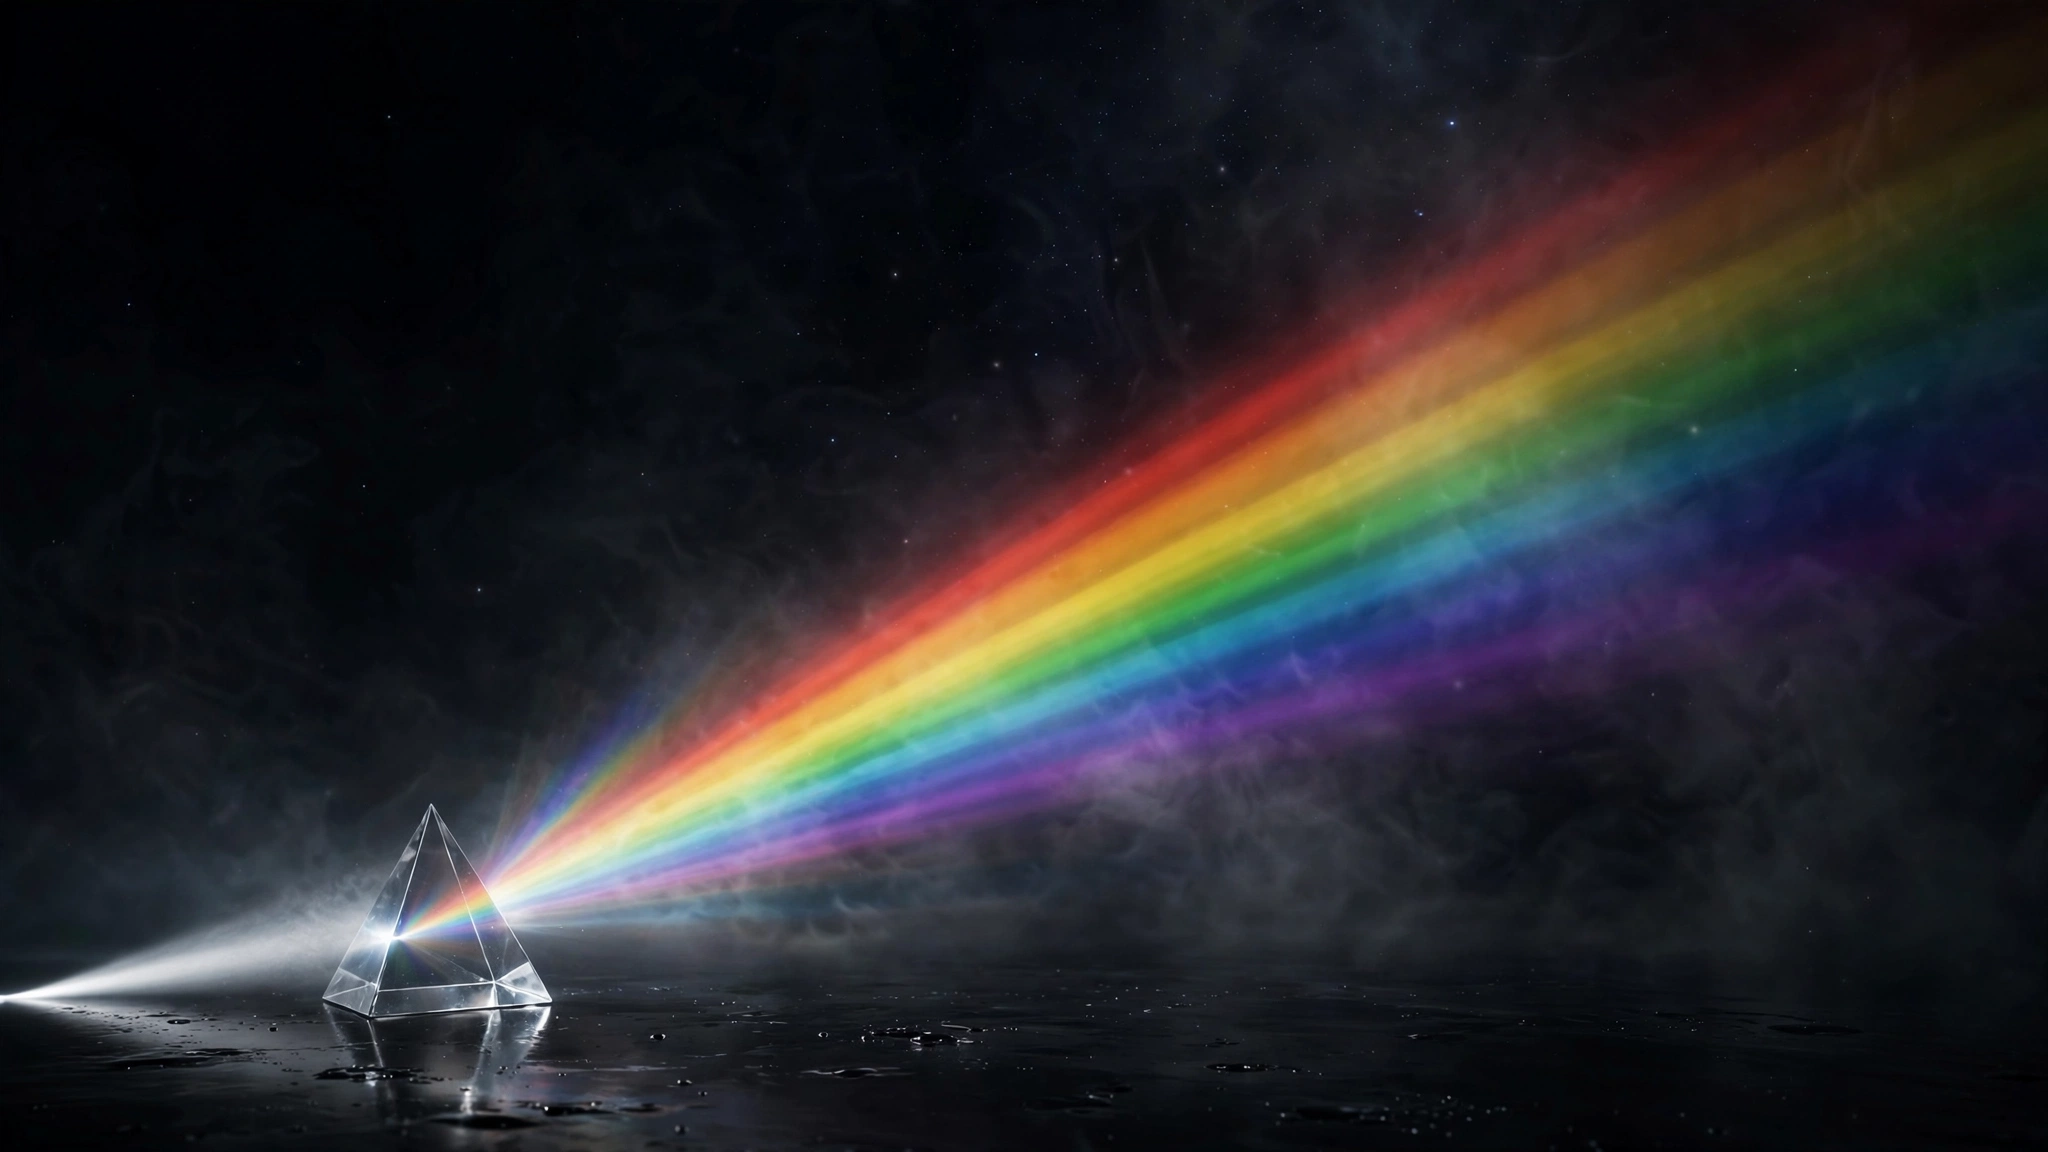
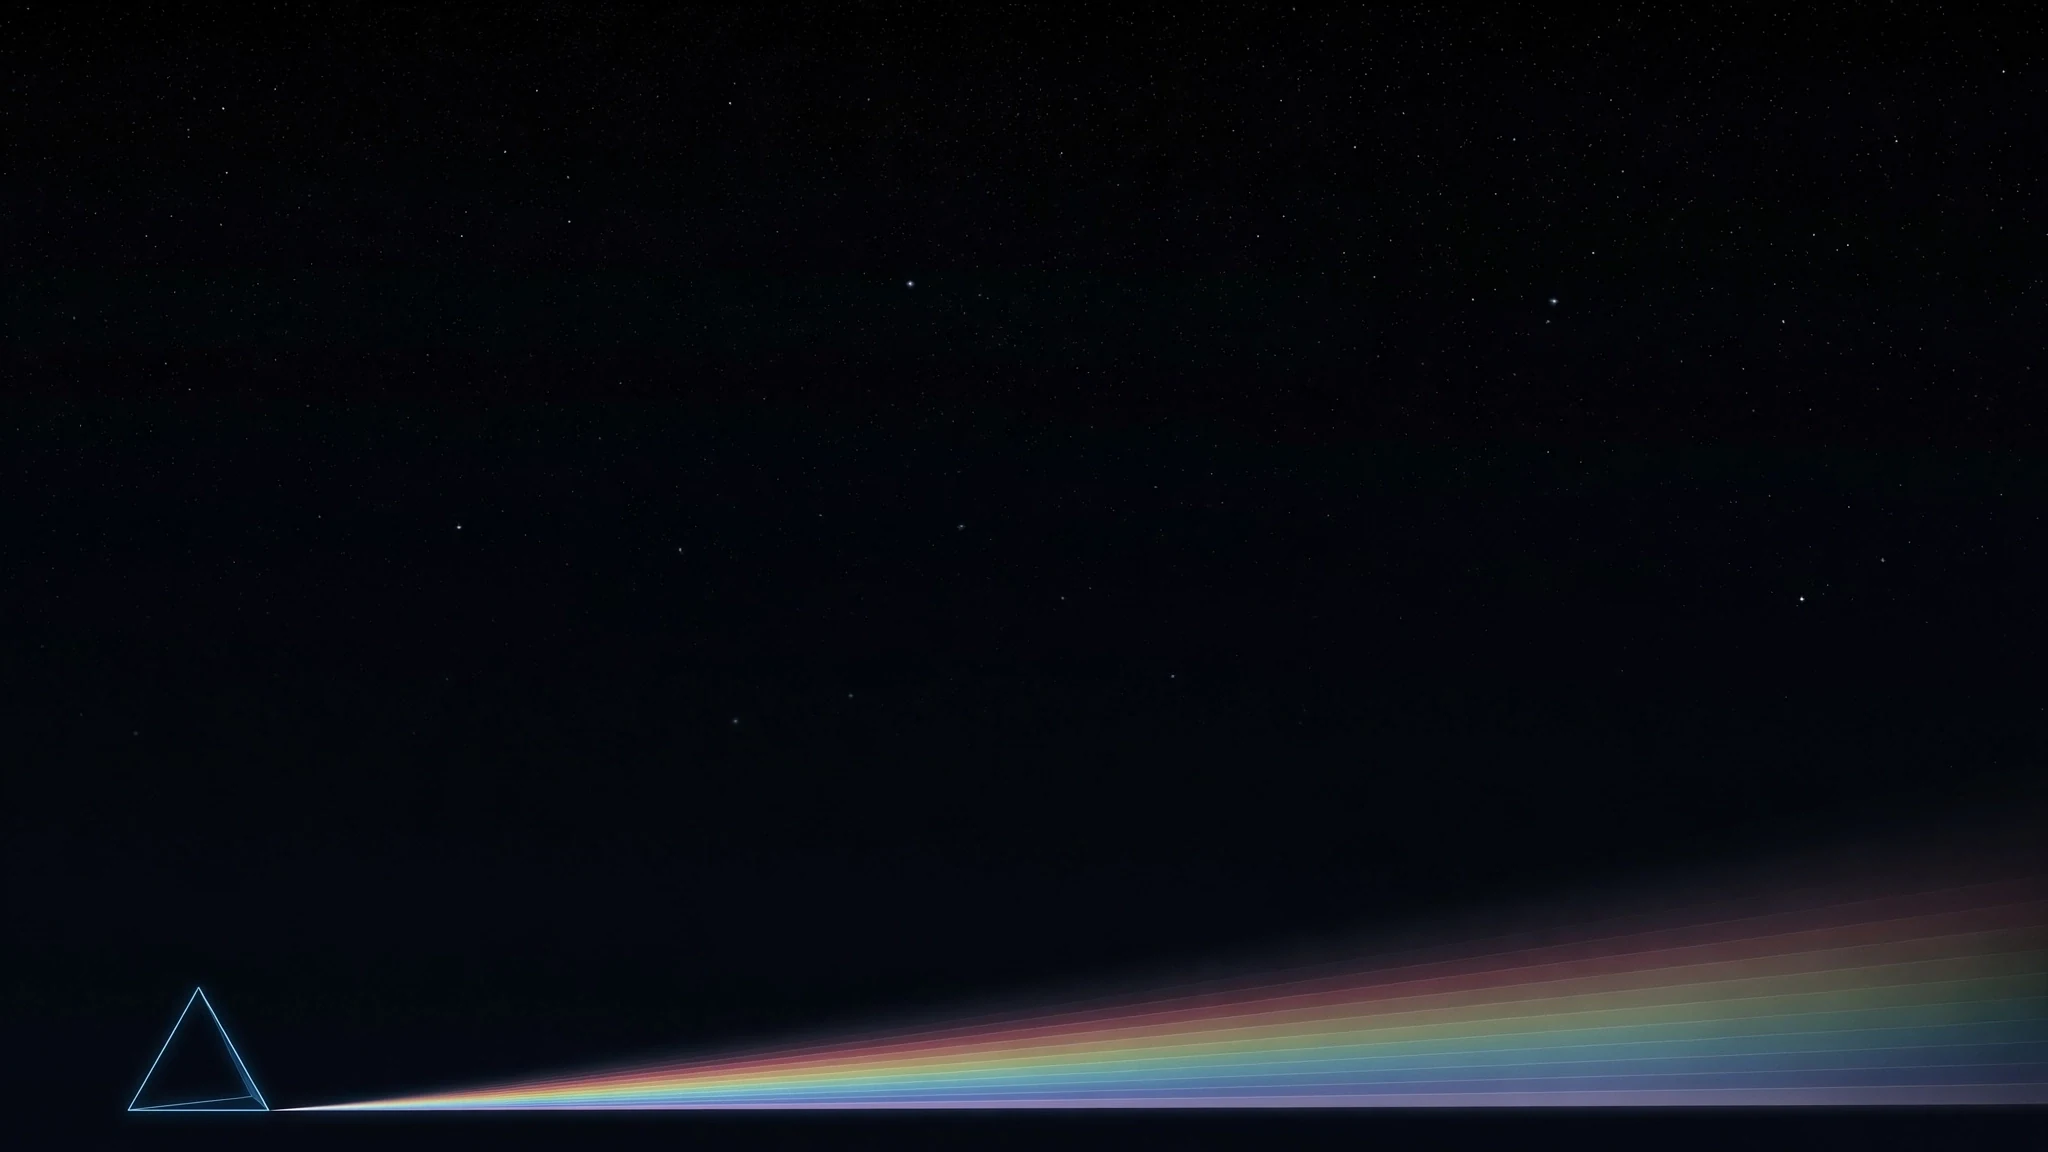
feat(landing): 首屏棱镜图按友站构图换图＋几何重调＋摘旧图入射叠层

diff --git a/user_frontend/src/views/marketing/LandingView.vue b/user_frontend/src/views/marketing/LandingView.vue
@@ -586,34 +586,27 @@ const year = new Date().getFullYear()
 
     <!-- ① Hero -->
     <header class="hero">
-      <!-- 移动端全幅背景（L-02 棱镜光束图，2026-11-15 换新图：深黑星空底、
-           棱镜居左下、白色光束自左缘入射、光谱扇斜射右上、左上大片黑场留给
-           文案）；图与脉冲叠层同装 .hero-bg-canvas（画布与图同比例 2048:1152、
-           高度撑满首屏，叠层恒对位）；仅 ≤900px 显示，桌面走 hero-visual 同图 -->
+      <!-- 移动端全幅背景（L-02 棱镜图，2026-11-18 按友站构图换图：黑底星空、
+           棱镜细线轮廓居左下、彩虹光束贴底向右下展开、无入射光束、无水面，
+           左上大片黑场留给文案）；图与脉冲叠层同装 .hero-bg-canvas（画布与图
+           同比例 2048:1152、高度撑满首屏，叠层恒对位）；仅 ≤900px 显示，
+           桌面走 hero-visual 同图 -->
       <div class="hero-bg" :class="{ 'is-ready': heroImgReady }" aria-hidden="true">
         <div class="hero-bg-canvas">
           <img class="hero-bg-img" src="/images/hero-prism-beam.webp" alt="" width="2048" height="1152" fetchpriority="high" @load="onHeroImgLoad" />
           <div class="hp">
-            <span class="hp-beamglow" />
-            <span class="hp-dot" />
-            <span class="hp-flash hp-flash--entry" />
             <span class="hp-flash hp-flash--prism" />
-            <span class="hp-refl" />
           </div>
         </div>
       </div>
-      <!-- 桌面棱镜主视觉：与移动端同一张棱镜光束图（2048×1152）。帧与图同
+      <!-- 桌面棱镜主视觉：与移动端同一张棱镜图（2048×1152）。帧与图同
            比例、高度撑满首屏，水平锚点把棱镜压到左下（几何见 .hero-visual-frame）。
            移动端不显示，走 .hero-bg。不再另叠彩虹渐变。 -->
       <div class="hero-visual" :class="{ 'is-ready': heroImgReady }" aria-hidden="true">
         <div class="hero-visual-frame">
           <img class="hero-visual-img" src="/images/hero-prism-beam.webp" alt="" width="2048" height="1152" @load="onHeroImgLoad" />
           <div class="hp">
-            <span class="hp-beamglow" />
-            <span class="hp-dot" />
-            <span class="hp-flash hp-flash--entry" />
             <span class="hp-flash hp-flash--prism" />
-            <span class="hp-refl" />
           </div>
         </div>
       </div>
@@ -1006,21 +999,18 @@ const year = new Date().getFullYear()
 }
 .hero-bg-canvas {
   position: absolute;
-  /* 画布与新图同比例（2048:1152）、高度撑满首屏：图宽＝177.78cqh 恒覆盖屏宽。
-     水平锚点：把棱镜中心（图 x≈21.3%）压到屏左 78px 处——棱镜落在左下、
-     入射光束自左缘入画、光谱扇斜贯右上、左上黑场留给文案。
-     脉冲几何覆盖值（对新图 2048×1152 像素实测，图内 % 坐标）：
-     光束线 y≈81、入射星芒 (19.5, 79.5)、棱镜中心 (21.3, 76.5)、倒影心 y≈90.5 */
+  /* 画布与图同比例（2048:1152）、高度撑满首屏：图宽＝177.78cqh 恒覆盖屏宽。
+     水平锚点：把棱镜中心（图 x≈9.7%）压到屏左 78px 处——棱镜落在左下、
+     彩虹光束贴底向右下展开、左上黑场留给文案。
+     脉冲几何覆盖值（对现行图 2048×1152 视觉定位实测，图内 % 坐标）：
+     棱镜轮廓 bbox x 6.2–13.2、y 85.6–96.5，中心 (9.7, 92.8) */
   top: 0;
   left: 0;
   height: 100%;
   aspect-ratio: 2048 / 1152;
-  margin-left: calc(78px - 37.8cqh);
-  --hp-beam-y: 81%;
-  --hp-entry-x: 19.5%;
-  --hp-prism-x: 21.3%;
-  --hp-prism-y: 76.5%;
-  --hp-refl-y: 90.5%;
+  margin-left: calc(78px - 17.2cqh);
+  --hp-prism-x: 9.7%;
+  --hp-prism-y: 92.8%;
 }
 .hero-bg-img {
   display: block;
@@ -1049,7 +1039,7 @@ const year = new Date().getFullYear()
   background: linear-gradient(0deg, rgba(1, 1, 4, 0.86), rgba(1, 1, 4, 0.55) 28%, transparent 56%);
 }
 /* 桌面棱镜：与移动端同一张图，帧与图同比例（2048:1152）撑满首屏，
-   脉冲百分比跟图走；定位把棱镜压到左下、光谱扇斜贯右上，左上黑部留给文案。只裁装饰层。 */
+   脉冲百分比跟图走；定位把棱镜压到左下、彩虹贴底向右下展开，左上黑部留给文案。只裁装饰层。 */
 .hero-visual {
   position: absolute;
   inset: 0;
@@ -1061,19 +1051,16 @@ const year = new Date().getFullYear()
   position: absolute;
   /* 不用 transform 定位：全站减动效会把 transform 清掉，构图不能靠它。
      帧与图同比例（2048:1152）、高度撑满首屏（超宽屏 min-width 兜底、底对齐，
-     图不拉伸不变形）；水平锚点：图比容器宽时把棱镜中心（图 x≈21.3%）压到
+     图不拉伸不变形）；水平锚点：图比容器宽时把棱镜中心（图 x≈9.7%）压到
      容器宽 12% 处，图恰好/不足时贴左/右对齐兜底不露黑。脉冲坐标与移动画布
      同一组图内 % 值（同一张图、帧图同比例恒对位）。 */
   bottom: 0;
   height: 100%;
   min-width: 100%;
   aspect-ratio: 2048 / 1152;
-  left: max(min(0px, calc(100cqw - 177.78cqh)), min(0px, calc(12cqw - 37.3cqh)));
-  --hp-beam-y: 81%;
-  --hp-entry-x: 19.5%;
-  --hp-prism-x: 21.3%;
-  --hp-prism-y: 76.5%;
-  --hp-refl-y: 90.5%;
+  left: max(min(0px, calc(100cqw - 177.78cqh)), min(0px, calc(12cqw - 17.2cqh)));
+  --hp-prism-x: 9.7%;
+  --hp-prism-y: 92.8%;
 }
 .hero-visual-img {
   display: block;
@@ -1095,59 +1082,26 @@ const year = new Date().getFullYear()
 }
 
 /* ---------- Hero 棱镜脉冲（L-02 唯一动效，2026-11-14 友站实测） ----------
-   一轮 5s：亮点沿入射光束自左向右跑 1.3s（0–26%）→ 抵达入射点时入射
-   星芒大亮、棱镜本体闪亮、地板倒影同步微亮 → 约 2.5s（50%）衰尽，
-   后半程全静默。光谱扇／出射星芒／行星光晕／画面本体零动画（实测
+   一轮 5s：棱镜本体在约 1.6s（32%）闪亮、约 2.6s（52%）衰尽，后半程
+   全静默。2026-11-18 换友站构图图后图内已无入射光束与水面，为旧图
+   入射光束编排的亮点／光束辉光／入射星芒／地板倒影四叠层一并摘除，
+   只留棱镜闪。光谱扇／出射星芒／行星光晕／画面本体零动画（实测
    90s+ 恒定，不加）。周期 5s 字面值照本文件环境动画先例（uhd-marquee
    46s linear、pin-breathe 26s）；相位 % 由实测秒数换算；几何坐标走
-   --hp-* 令牌（uhd-tokens.css §1.7 是旧图兜底值，现行几何在
-   .hero-visual-frame／.hero-bg-canvas 内按新图实测覆盖，两端同值）。 */
+   --hp-* 令牌（uhd-tokens.css §1.7 同值兜底，现行几何在
+   .hero-visual-frame／.hero-bg-canvas 内按现行图实测覆盖，两端同值）。 */
 .hp {
   position: absolute;
   inset: 0;
   pointer-events: none;
 }
-.hp-dot,
-.hp-beamglow,
-.hp-flash,
-.hp-refl {
+.hp-flash {
   position: absolute;
   opacity: 0;
   pointer-events: none;
-}
-.hp-beamglow {
-  left: 0;
-  top: var(--hp-beam-y);
-  width: var(--hp-entry-x);
-  height: 4%;
-  transform: translateY(-50%);
-  background: linear-gradient(90deg, transparent 30%, rgba(255, 255, 255, 0.75));
-  filter: blur(3px);
-  animation: hp-beamglow 5s linear infinite;
-}
-.hp-dot {
-  left: 0;
-  top: var(--hp-beam-y);
-  width: 15%;
-  height: 8%;
-  transform: translate(-50%, -50%);
-  border-radius: 50%;
-  background: radial-gradient(closest-side, rgba(255, 255, 255, 0.95), rgba(190, 215, 255, 0.4) 48%, transparent 72%);
-  filter: blur(1px);
-  animation: hp-travel 5s linear infinite;
-}
-.hp-flash {
   transform: translate(-50%, -50%);
   border-radius: 50%;
   mix-blend-mode: screen;
-}
-.hp-flash--entry {
-  left: var(--hp-entry-x);
-  top: var(--hp-beam-y);
-  width: 24%;
-  height: 24%;
-  background: radial-gradient(closest-side, rgba(255, 255, 255, 0.95), rgba(200, 220, 255, 0.35) 46%, transparent 70%);
-  animation: hp-flash-entry 5s linear infinite;
 }
 .hp-flash--prism {
   left: var(--hp-prism-x);
@@ -1157,42 +1111,10 @@ const year = new Date().getFullYear()
   background: radial-gradient(closest-side, rgba(235, 242, 255, 0.55), rgba(170, 200, 255, 0.18) 52%, transparent 72%);
   animation: hp-flash-prism 5s linear infinite;
 }
-.hp-refl {
-  left: var(--hp-prism-x);
-  top: var(--hp-refl-y);
-  width: 46%;
-  height: 20%;
-  transform: translate(-50%, -50%);
-  border-radius: 50%;
-  background: radial-gradient(closest-side, rgba(220, 232, 255, 0.4), transparent 70%);
-  filter: blur(4px);
-  animation: hp-refl 5s linear infinite;
-}
-@keyframes hp-travel {
-  0% { left: -6%; opacity: 0; }
-  5% { opacity: 1; }
-  26% { left: var(--hp-entry-x); opacity: 1; }
-  31%, 100% { left: var(--hp-entry-x); opacity: 0; }
-}
-@keyframes hp-beamglow {
-  0%, 8% { opacity: 0; }
-  26% { opacity: 0.5; }
-  50%, 100% { opacity: 0; }
-}
-@keyframes hp-flash-entry {
-  0%, 23% { opacity: 0; transform: translate(-50%, -50%) scale(0.72); }
-  30% { opacity: 0.95; transform: translate(-50%, -50%) scale(1); }
-  50%, 100% { opacity: 0; transform: translate(-50%, -50%) scale(1.15); }
-}
 @keyframes hp-flash-prism {
   0%, 24% { opacity: 0; transform: translate(-50%, -50%) scale(0.92); }
   32% { opacity: 0.6; transform: translate(-50%, -50%) scale(1); }
   52%, 100% { opacity: 0; transform: translate(-50%, -50%) scale(1.04); }
-}
-@keyframes hp-refl {
-  0%, 25% { opacity: 0; }
-  34% { opacity: 0.4; }
-  54%, 100% { opacity: 0; }
 }
 .hero-inner {
   position: relative;
@@ -2412,10 +2334,7 @@ const year = new Date().getFullYear()
 @media (prefers-reduced-motion: reduce) {
   .hero-el { animation: none; }
   /* 棱镜脉冲（L-02）：减动效时全关，只留静态照片图 */
-  .hp-dot,
-  .hp-beamglow,
-  .hp-flash,
-  .hp-refl { animation: none; }
+  .hp-flash { animation: none; }
   .marquee-track { animation: none; }
   .pin-bands { animation: none; }
   .rv,

diff --git a/admin_frontend/src/styles/uhd-tokens.css b/admin_frontend/src/styles/uhd-tokens.css
@@ -282,14 +282,11 @@
   --my: 50%;
   /* 官网同步进度线目标宽：模板内联 style="--bar-w: …" 给值，此处兜底 */
   --bar-w: 60%;
-  /* 官网 Hero 棱镜脉冲几何（L-02）：桌面图（1600×1067）像素实测值作
-     初始值——光束线高／入射星芒横位／棱镜中心／倒影辉光心高（图内 %
-     坐标）；移动端画布在 LandingView 内按移动图实测值覆盖这组令牌 */
-  --hp-beam-y: 49.9%;
-  --hp-entry-x: 42.3%;
-  --hp-prism-x: 49.6%;
-  --hp-prism-y: 63%;
-  --hp-refl-y: 89%;
+  /* 官网 Hero 棱镜脉冲几何（L-02）：现行图（2048×1152）视觉定位实测的
+     棱镜中心（图内 % 坐标）作初始值；LandingView 内桌面帧与移动画布
+     两处作用域同值覆盖。旧图的入射光束／倒影三令牌已随叠层摘除删除 */
+  --hp-prism-x: 9.7%;
+  --hp-prism-y: 92.8%;
 }
 
 /* 入场：只做淡入（组件仍以 uhd-blur-in 名引用，名字留档、效果已改）。

diff --git a/user_frontend/src/styles/uhd-tokens.css b/user_frontend/src/styles/uhd-tokens.css
@@ -282,14 +282,11 @@
   --my: 50%;
   /* 官网同步进度线目标宽：模板内联 style="--bar-w: …" 给值，此处兜底 */
   --bar-w: 60%;
-  /* 官网 Hero 棱镜脉冲几何（L-02）：桌面图（1600×1067）像素实测值作
-     初始值——光束线高／入射星芒横位／棱镜中心／倒影辉光心高（图内 %
-     坐标）；移动端画布在 LandingView 内按移动图实测值覆盖这组令牌 */
-  --hp-beam-y: 49.9%;
-  --hp-entry-x: 42.3%;
-  --hp-prism-x: 49.6%;
-  --hp-prism-y: 63%;
-  --hp-refl-y: 89%;
+  /* 官网 Hero 棱镜脉冲几何（L-02）：现行图（2048×1152）视觉定位实测的
+     棱镜中心（图内 % 坐标）作初始值；LandingView 内桌面帧与移动画布
+     两处作用域同值覆盖。旧图的入射光束／倒影三令牌已随叠层摘除删除 */
+  --hp-prism-x: 9.7%;
+  --hp-prism-y: 92.8%;
 }
 
 /* 入场：只做淡入（组件仍以 uhd-blur-in 名引用，名字留档、效果已改）。
